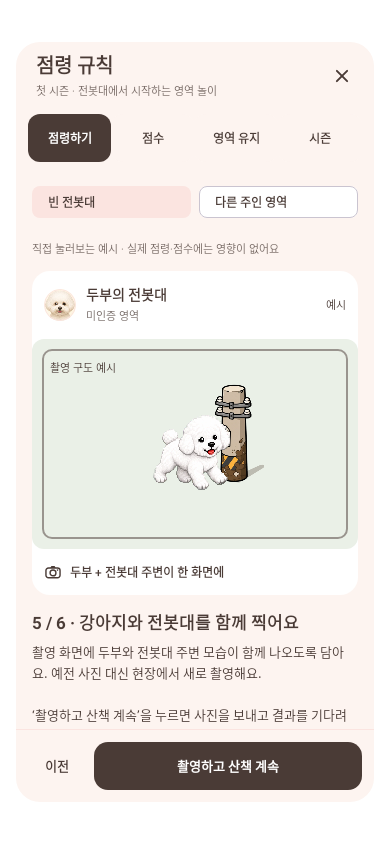
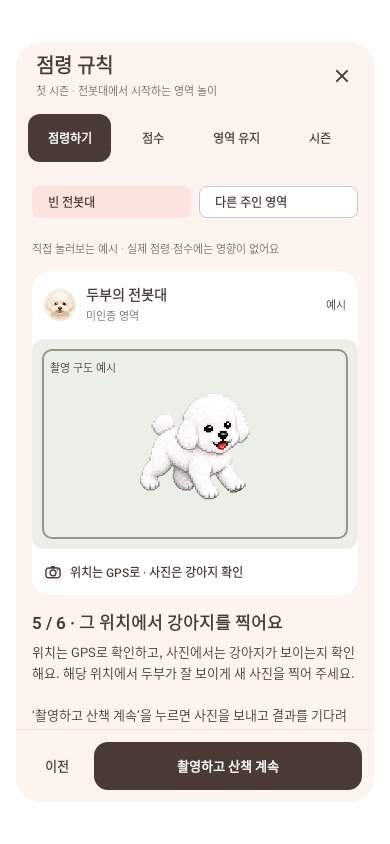
지도 전봇대를 실제 사진에 담도록 안내하던 것
점령 인증 위치는 GPS로 확인하고 사진은 강아지가 보이는지만 판정한다.
팝업 촬영 예시에서 전봇대를 제거하고 해당 위치에서 강아지가 보이게
촬영하도록 규칙·예시·실제 카메라 화면의 안내를 맞췄다.

기존 규칙 예시 3개, 작은 화면 1개, 온라인 촬영 안내 1개 통과.
debug APK 빌드 성공, 갱신된 예시 렌더와 git diff --check 확인.

Changed region(s): [[0.0615, 0.6469, 0.8923, 0.8009], [0.3692, 0.4621, 0.6769, 0.6161]]

diff --git a/app/src/main/java/com/daengs/app/ui/game/TerritoryGuideSteps.kt b/app/src/main/java/com/daengs/app/ui/game/TerritoryGuideSteps.kt
@@ -14,7 +14,7 @@ internal enum class GuideStep {
         SELECT -> "지도 위 전봇대를 눌러요"
         ACTION -> if (scenario == GuideScenario.EMPTY) "두부로 영역표시해요" else "사진으로 다른 주인에게 도전해요"
         MARKED -> "두부의 첫 영역, 기본 +20점"
-        PHOTO -> "강아지와 전봇대를 함께 찍어요"
+        PHOTO -> "그 위치에서 강아지를 찍어요"
         RESULT -> if (scenario == GuideScenario.EMPTY) "인증 성공! 기본 점수 총 100점" else "탈취 성공! 이번에는 +120점"
     }
 
@@ -28,13 +28,13 @@ internal enum class GuideStep {
     }
 
     fun detail(scenario: GuideScenario): String = when (this) {
-        APPROACH -> "게임이 열리면 강아지와 산책을 시작하고 점령 지도를 확인해요. 전봇대를 누르거나 가까이 가면 범위가 보여요.\n\n영역표시는 20m, 사진 인증은 10m 안에서 가능해요. GPS 오차도 포함하므로 실제로 충분히 가까이 가 주세요."
+        APPROACH -> "게임이 열리면 강아지와 산책을 시작하고 점령 지도를 확인해요. 지도 속 전봇대는 점령 위치를 나타내는 아이콘이에요. 누르거나 가까이 가면 범위가 보여요.\n\n영역표시는 20m, 사진 인증은 10m 안에서 가능해요. GPS 오차도 포함하므로 실제로 충분히 가까이 가 주세요."
         SELECT -> "예시의 두부는 전봇대 8m 안에 도착했어요. 위 전봇대를 눌러 주인과 사용할 수 있는 행동을 확인해 보세요. 범위 안이어도 산책·위치·보호 상태에 따라 행동이 제한될 수 있어요."
         ACTION -> if (scenario == GuideScenario.EMPTY)
             "주인이 없는 전봇대예요. 함께 걷는 강아지 중 두부를 선택하고 ‘영역표시’를 눌러요. 가까이 도착하는 것만으로는 점령되지 않아요.\n\n이 예시는 이번 시즌 이 장소에서 아직 기본 점수를 받지 않은 회원이에요."
         else "초코는 다른 회원의 강아지이고, 아직 미인증 주인이에요. ‘영역표시 인증 촬영’으로 도전해요. 인증된 주인도 보호 시간이 끝나면 같은 방법으로 도전해요.\n\n인증 직후 10분 동안은 보호돼요. 버튼이 열리지 않으면 남은 시간과 거리를 확인해 주세요."
         MARKED -> "서버에서 점령이 확인되면 주인이 두부로 바뀌고 기본 20점이 생겨요.\n\n이어서 10m 안에서 카메라 버튼 ‘영역표시 인증 촬영’을 눌러 인증할 수 있어요. 빈 전봇대에서는 사진 인증부터 바로 시작하는 것도 가능해요."
-        PHOTO -> "촬영 화면에 두부와 전봇대 주변 모습이 함께 나오도록 담아요. 예전 사진 대신 현장에서 새로 촬영해요.\n\n‘촬영하고 산책 계속’을 누르면 사진을 보내고 결과를 기다려요. 점령·점수는 서버에서 인증 성공을 확인한 뒤 확정돼요."
+        PHOTO -> "위치는 GPS로 확인하고, 사진에서는 강아지가 보이는지 확인해요. 해당 위치에서 두부가 잘 보이게 새 사진을 찍어 주세요.\n\n‘촬영하고 산책 계속’을 누르면 사진을 보내고 결과를 기다려요. 점령·점수는 서버에서 인증 성공을 확인한 뒤 확정돼요."
         RESULT -> if (scenario == GuideScenario.EMPTY)
             "예시에서 먼저 받은 20점에 남은 80점을 더해, 두부가 이곳의 기본 점수 100점을 채웠어요. 인증 영역은 시간당 보유 점수 10점도 쌓여요.\n\n기본 한도는 회원·장소·시즌별 100점이라 강아지를 바꾸거나 다시 점령해도 새로 100점을 받지는 않아요."
         else "주인이 초코에서 두부로 바뀌었어요. 이 회원이 이번 시즌 이곳에서 기본 점수를 받은 적이 없어 기본 100점과 탈취 보너스 20점을 받는 예시예요.\n\n기본 20점을 이미 받았다면 이번에는 +100점, 100점을 채웠다면 +20점이에요. 다른 회원의 영역 인증 탈취 보너스는 성공할 때마다 받아요. 같은 회원의 다른 강아지에게는 탈취 보너스가 없어요."

diff --git a/app/src/main/java/com/daengs/app/ui/game/TerritoryGuideScene.kt b/app/src/main/java/com/daengs/app/ui/game/TerritoryGuideScene.kt
@@ -77,13 +77,13 @@ internal fun TerritoryGuideScene(scenario: GuideScenario, step: GuideStep, onSel
                             strokeWidth = 1.5.dp.toPx(), pathEffect = PathEffect.dashPathEffect(floatArrayOf(5.dp.toPx(), 4.dp.toPx())))
                     }
                 }
-                Image(pole, contentDescription = if (onSelectPole != null) "예시 전봇대 선택" else null,
+                if (!photo) Image(pole, contentDescription = if (onSelectPole != null) "예시 전봇대 선택" else null,
                     modifier = Modifier.offset(x = poleX - 32.dp, y = baseY - 160.dp * TerritoryPoleArt.ANCHOR_Y)
                         .size(64.dp, 160.dp).testTag("game-guide-pole").then(
                             if (onSelectPole != null) Modifier.clickable(role = Role.Button, onClick = onSelectPole) else Modifier))
                 if (photo) {
-                    Canvas(Modifier.offset(x = dogX - 42.dp, y = baseY - 72.dp).size(84.dp, 82.dp)
-                        .semantics { contentDescription = "촬영 구도 예시: 두부의 전신과 전봇대 주변을 함께 담아요" }) {
+                    Canvas(Modifier.align(Alignment.Center).size(120.dp, 117.dp)
+                        .semantics { contentDescription = "촬영 구도 예시: 해당 위치에서 두부가 잘 보이게 촬영해요" }) {
                         drawSpriteFrame(dogSheet, 0, size)
                     }
                     Box(Modifier.matchParentSize().padding(10.dp).border(2.dp, TextDark.copy(alpha = .5f), RoundedCornerShape(10.dp)))
@@ -107,7 +107,7 @@ internal fun TerritoryGuideScene(scenario: GuideScenario, step: GuideStep, onSel
                     step == GuideStep.RESULT && scenario == GuideScenario.TAKEOVER -> "초코 → 두부  ·  기본 100 + 탈취 20점"
                     step == GuideStep.RESULT -> "두부  ·  20 + 80 = 기본 100점"
                     step == GuideStep.MARKED -> "두부  ·  기본 +20점"
-                    photo -> "두부 + 전봇대 주변이 한 화면에"
+                    photo -> "위치는 GPS로 · 사진은 강아지 확인"
                     step == GuideStep.ACTION -> "영역표시할 강아지  ·  두부"
                     else -> "전봇대를 선택하면 주인과 행동을 확인해요"
                 }, color = TextDark, fontSize = 12.sp, fontWeight = FontWeight.SemiBold)

diff --git a/app/src/main/java/com/daengs/app/ui/game/TerritoryGameRules.kt b/app/src/main/java/com/daengs/app/ui/game/TerritoryGameRules.kt
@@ -4,7 +4,7 @@ package com.daengs.app.ui.game
 internal data class GameRule(val id: String, val title: String, val summary: String, val detail: String)
 internal val firstSeasonGameRules = listOf(
     GameRule("mark", "가까이 가서 점령해요", "미인증 20점 · 인증하면 누적 100점까지",
-        "산책 중 빈 전봇대의 20m 안에서 영역표시하면 기본 점수를 누적 20점까지 받아요. GPS 오차도 거리에 포함돼요.\n\n강아지와 전봇대 주변이 함께 나온 새 사진을 10m 안에서 촬영해 인증하면 누적 100점까지 남은 점수를 받아요. 20점을 받았다면 인증으로 80점을 더 받아요.\n\n한 장소의 기본 점수 한도는 회원·시즌별 100점이에요. 강아지를 바꿔도 한도는 같고, 받은 점수는 행동한 강아지에게 쌓여요."),
+        "산책 중 지도에 표시된 빈 점령 위치의 20m 안에서 영역표시하면 기본 점수를 누적 20점까지 받아요. GPS 오차도 거리에 포함돼요.\n\n점령 위치의 10m 안에서 강아지가 보이게 새 사진을 촬영해 인증하면 누적 100점까지 남은 점수를 받아요. 위치는 GPS로, 강아지 여부는 사진으로 확인해요. 20점을 받았다면 인증으로 80점을 더 받아요.\n\n한 장소의 기본 점수 한도는 회원·시즌별 100점이에요. 강아지를 바꿔도 한도는 같고, 받은 점수는 행동한 강아지에게 쌓여요."),
     GameRule("takeover", "사진으로 다른 영역에 도전해요", "다른 회원의 영역 인증 탈취 · 매번 +20점",
         "다른 회원이 가진 영역은 새 사진 인증으로 탈취해요. 이전 주인의 인증 여부와 관계없이 성공할 때마다 20점 보너스를 받아요.\n\n그 장소에서 기본 점수를 한 번도 받지 않았다면 기본 100점 + 보너스 20점으로 총 120점을 받아요. 기본 점수를 이미 20점 받았다면 100점, 100점을 모두 받았다면 보너스 20점을 받아요.\n\n인증 직후에는 10분 동안 보호돼요. 같은 회원의 다른 강아지에게 넘기는 행동에는 탈취 보너스가 없어요."),
     GameRule("hold", "영역을 지키며 점수를 쌓아요", "미인증 시간당 2점 · 인증 시간당 10점",

diff --git a/app/src/main/java/com/daengs/app/ui/walk/TerritoryCaptureDialog.kt b/app/src/main/java/com/daengs/app/ui/walk/TerritoryCaptureDialog.kt
@@ -57,8 +57,8 @@ internal fun TerritoryCaptureDialog(
     Dialog(onDismissRequest = { if (!busy) onDismiss() }, properties = DialogProperties(usePlatformDefaultWidth = false)) {
         Column(Modifier.fillMaxSize().background(Color.White).safeDrawingPadding().padding(16.dp).verticalScroll(rememberScrollState())) {
             Text("영역표시 인증", style = MaterialTheme.typography.titleLarge)
-            Text(if (online) "강아지와 전봇대 주변 모습이 함께 나오게 찍어 주세요" else "$siteId · 강아지와 현장 모습이 함께 나오게 찍어 주세요")
-            Text(if (online) "사진은 현재 위치에서 촬영하고 서버에서 확인해요 · 인증 범위 10m" else "점령 연습 · 사진 내용은 검사하지 않는 페이크 판정입니다")
+            Text(if (online) "현재 위치에서 강아지가 잘 보이게 찍어 주세요" else "$siteId · 강아지가 잘 보이게 찍어 주세요")
+            Text(if (online) "위치는 GPS로, 강아지 여부는 사진으로 확인해요 · 인증 범위 10m" else "점령 연습 · 사진 내용은 검사하지 않는 페이크 판정입니다")
             if (permission) {
                 val camera = rememberCameraController(videoEnabled = false)
                 CameraPreview(camera, Modifier.fillMaxWidth().aspectRatio(3f / 4f))

diff --git a/app/src/test/java/com/daengs/app/ui/walk/WalkTerritoryUiTest.kt b/app/src/test/java/com/daengs/app/ui/walk/WalkTerritoryUiTest.kt
@@ -51,8 +51,8 @@ class WalkTerritoryUiTest {
     @Test fun onlineCameraExplainsRealPhotoAndHidesSimulationControls() {
         compose.setContent { DaengsTheme { TerritoryCaptureDialog("internal-site-id", { null },
             { _, _, _ -> kotlinx.coroutines.CompletableDeferred(false) }, {}, online = true) } }
-        compose.onNodeWithText("강아지와 전봇대 주변 모습이 함께 나오게 찍어 주세요").assertIsDisplayed()
-        compose.onNodeWithText("사진은 현재 위치에서 촬영하고 서버에서 확인해요 · 인증 범위 10m").assertIsDisplayed()
+        compose.onNodeWithText("현재 위치에서 강아지가 잘 보이게 찍어 주세요").assertIsDisplayed()
+        compose.onNodeWithText("위치는 GPS로, 강아지 여부는 사진으로 확인해요 · 인증 범위 10m").assertIsDisplayed()
         compose.onNodeWithText("테스트 판정 선택").assertDoesNotExist()
         compose.onNodeWithText("internal-site-id", substring = true).assertDoesNotExist()
     }

diff --git a/app/src/test/java/com/daengs/app/ui/game/TerritoryGameRulesTest.kt b/app/src/test/java/com/daengs/app/ui/game/TerritoryGameRulesTest.kt
@@ -36,7 +36,8 @@ class TerritoryGameRulesTest {
         compose.onNodeWithTag("game-guide-next").assertTextContains("영역표시").performClick()
         compose.onNodeWithText("두부  ·  기본 +20점").performScrollTo().assertIsDisplayed()
         compose.onNodeWithTag("game-guide-next").assertTextContains("영역표시 인증 촬영").performClick()
-        compose.onNodeWithContentDescription("촬영 구도 예시: 두부의 전신과 전봇대 주변을 함께 담아요").assertExists()
+        compose.onNodeWithContentDescription("촬영 구도 예시: 해당 위치에서 두부가 잘 보이게 촬영해요").assertExists()
+        compose.onNodeWithTag("game-guide-pole").assertDoesNotExist()
         screenshot("game-rules-photo")
         compose.onNodeWithTag("game-guide-next").assertTextContains("촬영하고 산책 계속").performClick()
         compose.onNodeWithText("두부  ·  20 + 80 = 기본 100점").performScrollTo().assertIsDisplayed()
